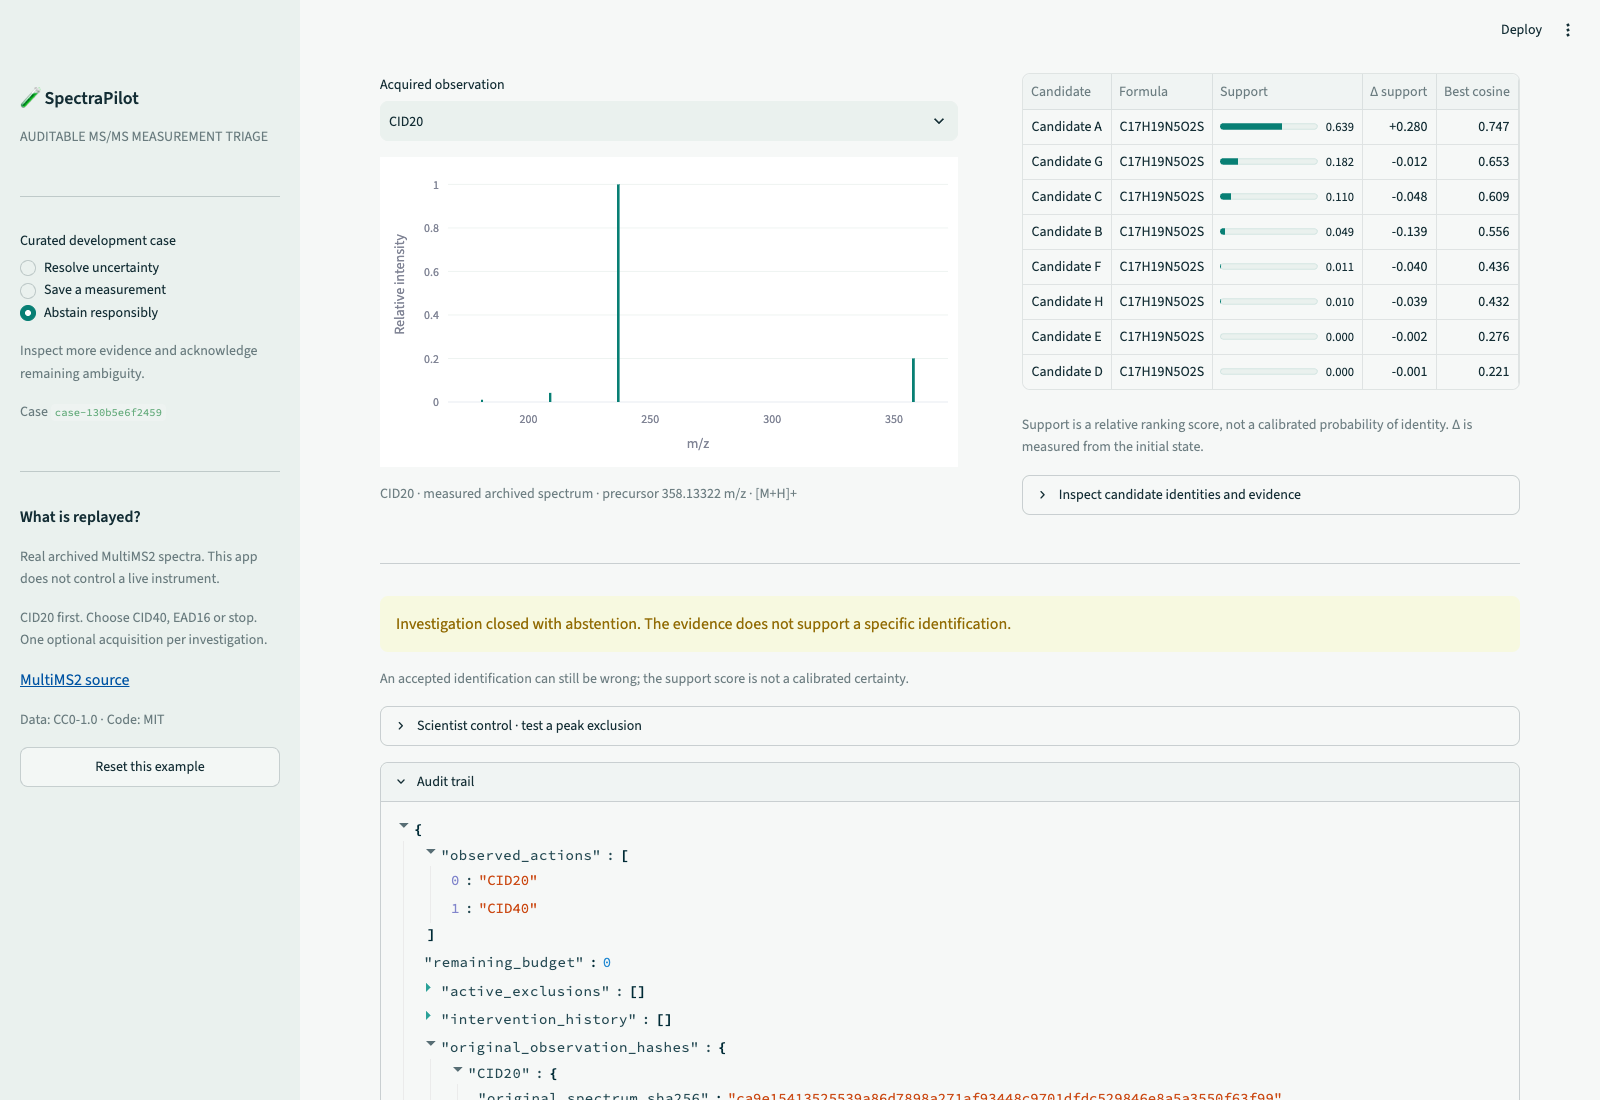
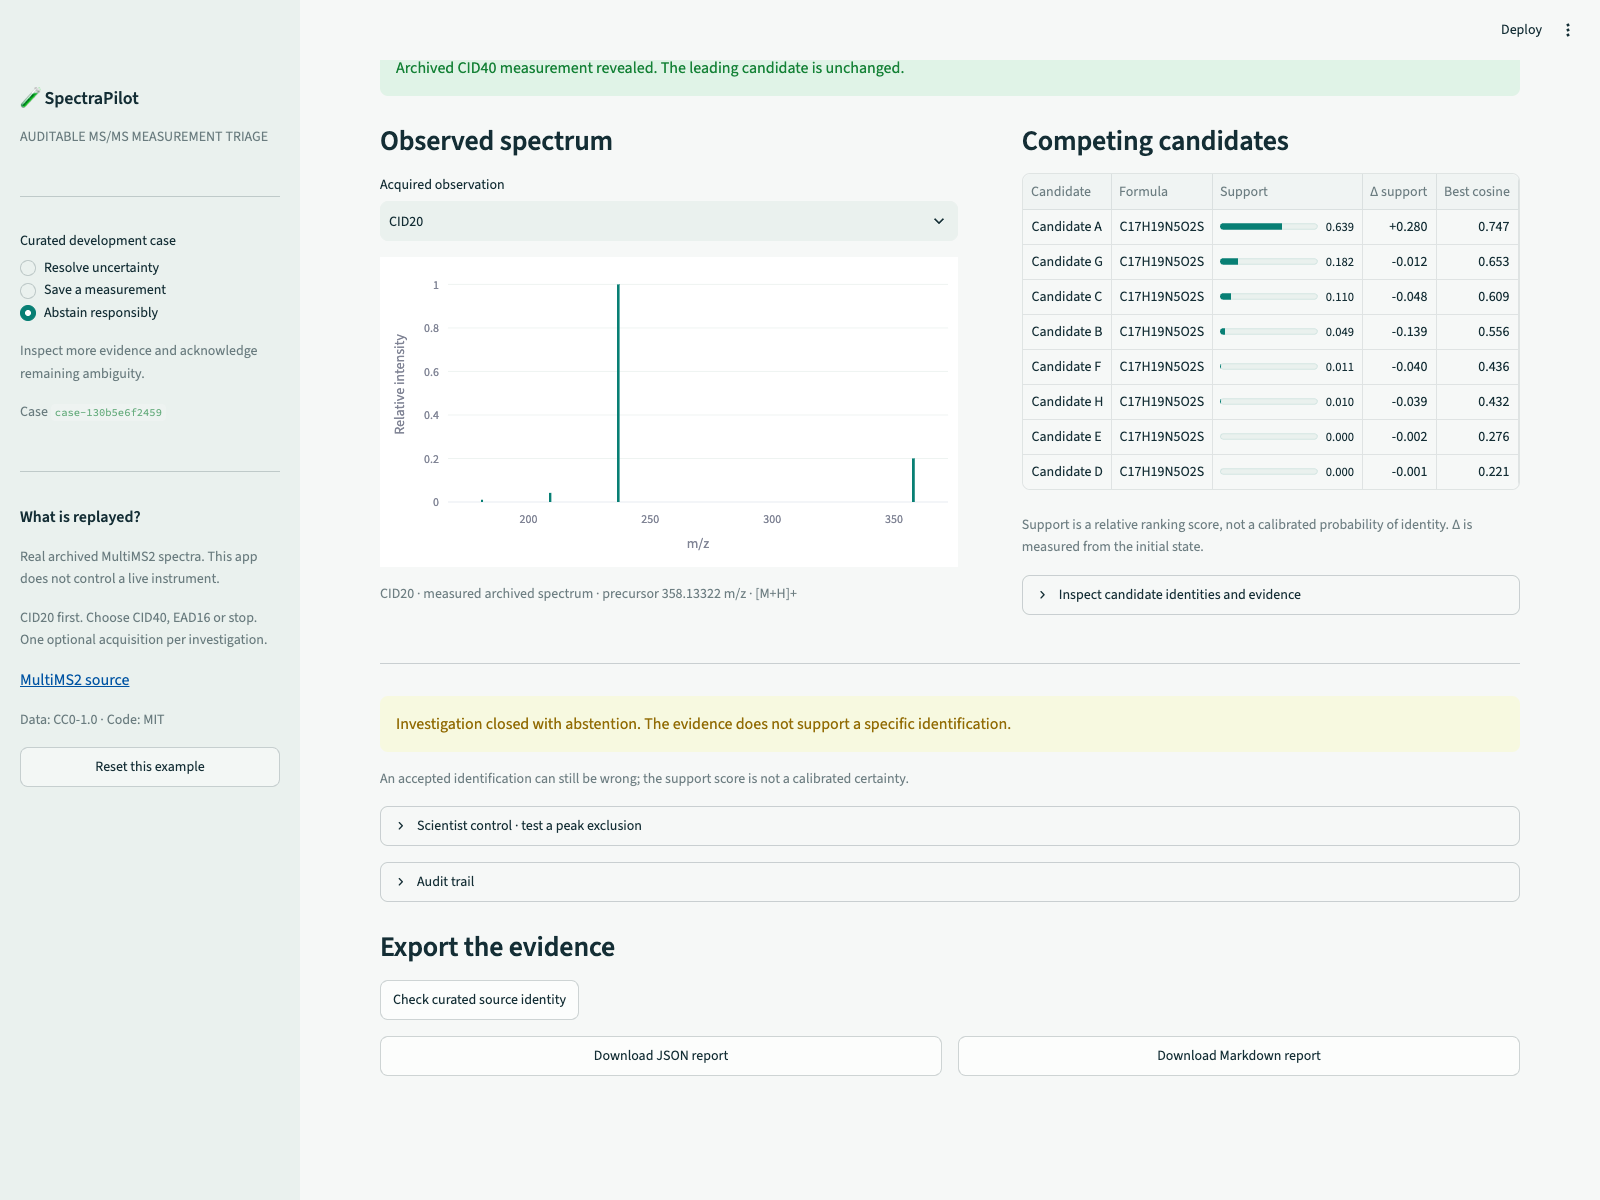
make demo report exports prominent and refresh screenshots

diff --git a/app/spectrapilot_demo.py b/app/spectrapilot_demo.py
@@ -411,7 +411,7 @@ with investigation_tab:
                     disabled=stopped,
                 )
 
-        with st.expander("Audit trail", expanded=stopped):
+        with st.expander("Audit trail"):
             st.write(
                 {
                     "observed_actions": evidence["observed_actions"],
